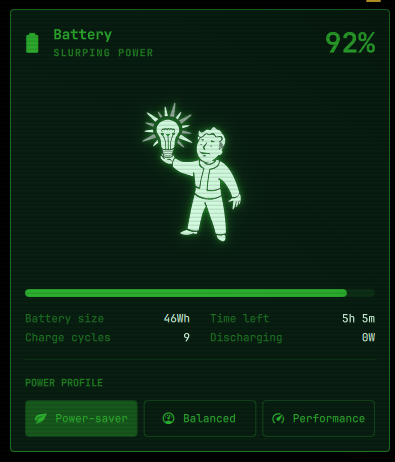
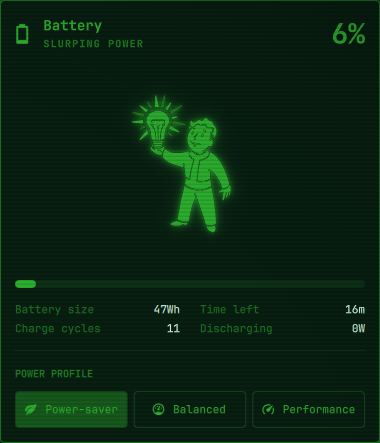
feat: tint the Vault Boy art phosphor green

diff --git a/plugins/anerti.menu/Menu.qml b/plugins/anerti.menu/Menu.qml
@@ -1138,7 +1138,7 @@ Item {
             anchors.fill: artGif
             source: artGif
             colorization: 1.0
-            colorizationColor: "#d6ffe3"
+            colorizationColor: "#2cae2e"
             shadowEnabled: true
             shadowColor: Qt.rgba(44 / 255, 174 / 255, 46 / 255, 0.6)
             shadowBlur: 0.5

diff --git a/plugins/anerti.agents/PanelArt.qml b/plugins/anerti.agents/PanelArt.qml
@@ -24,7 +24,7 @@ Item {
     anchors.fill: gif
     source: gif
     colorization: 1.0
-    colorizationColor: "#d6ffe3"
+    colorizationColor: "#2cae2e"
     shadowEnabled: true
     shadowColor: Qt.rgba(44 / 255, 174 / 255, 46 / 255, 0.35)
     shadowBlur: 0.6

diff --git a/plugins/anerti.audio/PanelArt.qml b/plugins/anerti.audio/PanelArt.qml
@@ -24,7 +24,7 @@ Item {
     anchors.fill: gif
     source: gif
     colorization: 1.0
-    colorizationColor: "#d6ffe3"
+    colorizationColor: "#2cae2e"
     shadowEnabled: true
     shadowColor: Qt.rgba(44 / 255, 174 / 255, 46 / 255, 0.35)
     shadowBlur: 0.6

diff --git a/plugins/anerti.bluetooth/PanelArt.qml b/plugins/anerti.bluetooth/PanelArt.qml
@@ -24,7 +24,7 @@ Item {
     anchors.fill: gif
     source: gif
     colorization: 1.0
-    colorizationColor: "#d6ffe3"
+    colorizationColor: "#2cae2e"
     shadowEnabled: true
     shadowColor: Qt.rgba(44 / 255, 174 / 255, 46 / 255, 0.35)
     shadowBlur: 0.6

diff --git a/plugins/anerti.clock/PanelArt.qml b/plugins/anerti.clock/PanelArt.qml
@@ -24,7 +24,7 @@ Item {
     anchors.fill: gif
     source: gif
     colorization: 1.0
-    colorizationColor: "#d6ffe3"
+    colorizationColor: "#2cae2e"
     shadowEnabled: true
     shadowColor: Qt.rgba(44 / 255, 174 / 255, 46 / 255, 0.35)
     shadowBlur: 0.6

diff --git a/plugins/anerti.monitor/PanelArt.qml b/plugins/anerti.monitor/PanelArt.qml
@@ -24,7 +24,7 @@ Item {
     anchors.fill: gif
     source: gif
     colorization: 1.0
-    colorizationColor: "#d6ffe3"
+    colorizationColor: "#2cae2e"
     shadowEnabled: true
     shadowColor: Qt.rgba(44 / 255, 174 / 255, 46 / 255, 0.35)
     shadowBlur: 0.6

diff --git a/plugins/anerti.network/PanelArt.qml b/plugins/anerti.network/PanelArt.qml
@@ -24,7 +24,7 @@ Item {
     anchors.fill: gif
     source: gif
     colorization: 1.0
-    colorizationColor: "#d6ffe3"
+    colorizationColor: "#2cae2e"
     shadowEnabled: true
     shadowColor: Qt.rgba(44 / 255, 174 / 255, 46 / 255, 0.35)
     shadowBlur: 0.6

diff --git a/plugins/anerti.power/PanelArt.qml b/plugins/anerti.power/PanelArt.qml
@@ -24,7 +24,7 @@ Item {
     anchors.fill: gif
     source: gif
     colorization: 1.0
-    colorizationColor: "#d6ffe3"
+    colorizationColor: "#2cae2e"
     shadowEnabled: true
     shadowColor: Qt.rgba(44 / 255, 174 / 255, 46 / 255, 0.35)
     shadowBlur: 0.6

diff --git a/plugins/anerti.weather/PanelArt.qml b/plugins/anerti.weather/PanelArt.qml
@@ -24,7 +24,7 @@ Item {
     anchors.fill: gif
     source: gif
     colorization: 1.0
-    colorizationColor: "#d6ffe3"
+    colorizationColor: "#2cae2e"
     shadowEnabled: true
     shadowColor: Qt.rgba(44 / 255, 174 / 255, 46 / 255, 0.35)
     shadowBlur: 0.6

diff --git a/README.md b/README.md
@@ -24,7 +24,7 @@ The Pip-Boy menu (**Super + Space**) looks and works like Omarchy's own menu, wi
 
 Each status panel (network, Bluetooth, audio, display, power, clock, weather, agents) keeps Omarchy's controls and adds a Vault Boy on a scanlined screen. This is the power panel:
 
-<img src="preview-panel.png" width="395" alt="Power panel">
+<img src="preview-panel.png" width="380" alt="Power panel">
 
 ### Lock and boot
 
